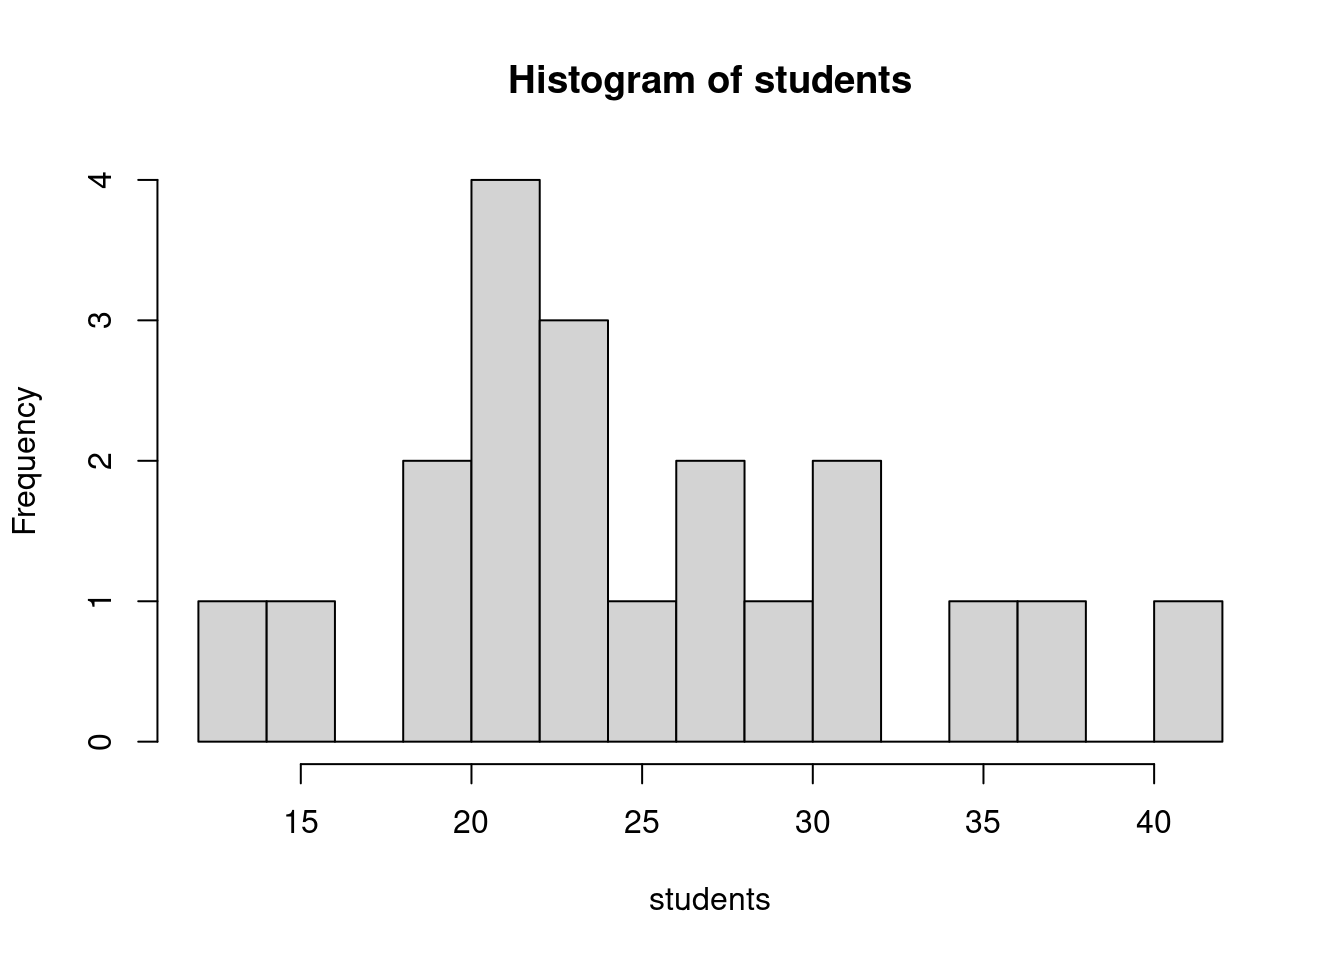
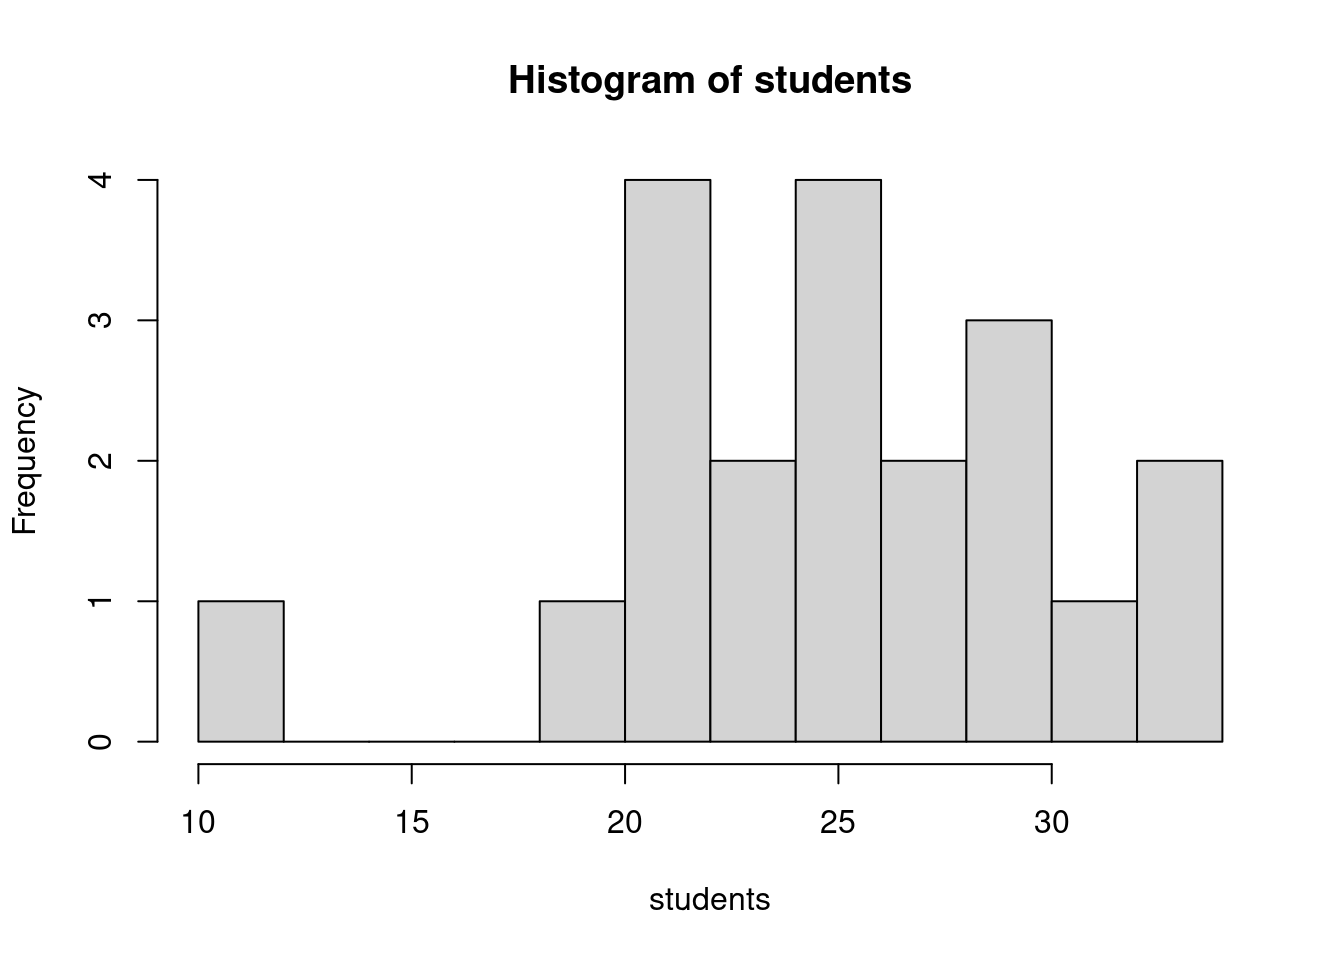
Variance added - ready to publish

diff --git a/_book/what-is-statistics.html b/_book/what-is-statistics.html
@@ -225,6 +225,17 @@ code span.wa { color: #60a0b0; font-weight: bold; font-style: italic; } /* Warni
 <li class="chapter" data-level="3.5.1" data-path="discrete-probability.html"><a href="discrete-probability.html#conclusion-to-the-motivating-question"><i class="fa fa-check"></i><b>3.5.1</b> Conclusion to the Motivating Question</a></li>
 <li class="chapter" data-level="3.5.2" data-path="discrete-probability.html"><a href="discrete-probability.html#general-cummulative-distribution-functions"><i class="fa fa-check"></i><b>3.5.2</b> General Cummulative Distribution Functions</a></li>
 </ul></li>
+<li class="chapter" data-level="3.6" data-path="discrete-probability.html"><a href="discrete-probability.html#motivating-problem---the-birthday-paradox"><i class="fa fa-check"></i><b>3.6</b> Motivating Problem - The Birthday Paradox</a></li>
+<li class="chapter" data-level="3.7" data-path="discrete-probability.html"><a href="discrete-probability.html#expected-value"><i class="fa fa-check"></i><b>3.7</b> Expected Value</a>
+<ul>
+<li class="chapter" data-level="3.7.1" data-path="discrete-probability.html"><a href="discrete-probability.html#the-expected-number-of-students-experiencing-food-insecurity"><i class="fa fa-check"></i><b>3.7.1</b> The Expected Number of Students Experiencing Food Insecurity</a></li>
+<li class="chapter" data-level="3.7.2" data-path="discrete-probability.html"><a href="discrete-probability.html#examples"><i class="fa fa-check"></i><b>3.7.2</b> Examples</a></li>
+</ul></li>
+<li class="chapter" data-level="3.8" data-path="discrete-probability.html"><a href="discrete-probability.html#population-variance"><i class="fa fa-check"></i><b>3.8</b> Population Variance</a>
+<ul>
+<li class="chapter" data-level="3.8.1" data-path="discrete-probability.html"><a href="discrete-probability.html#methods-of-computing-vy"><i class="fa fa-check"></i><b>3.8.1</b> Methods of Computing <span class="math inline">\(V(Y)\)</span></a></li>
+<li class="chapter" data-level="3.8.2" data-path="discrete-probability.html"><a href="discrete-probability.html#variance-of-a-binomial-random-variable"><i class="fa fa-check"></i><b>3.8.2</b> Variance of a Binomial Random Variable</a></li>
+</ul></li>
 </ul></li>
 </ul>
 
@@ -311,7 +322,7 @@ While I am collecting this data you can reflect on this funny musing. I grew up 
 <span id="cb2-5"><a href="what-is-statistics.html#cb2-5" aria-hidden="true" tabindex="-1"></a><span class="co"># students &lt;- c() </span></span>
 <span id="cb2-6"><a href="what-is-statistics.html#cb2-6" aria-hidden="true" tabindex="-1"></a></span>
 <span id="cb2-7"><a href="what-is-statistics.html#cb2-7" aria-hidden="true" tabindex="-1"></a>students</span></code></pre></div>
-<pre><code>##  [1] 22 19 29 41 31 27 26 23 20 23 21 13 28 22 16 38 21 31 36 23</code></pre>
+<pre><code>##  [1] 26 28 34 29 22 26 34 21 30 21 25 24 25 22 32 30 20 10 24 27</code></pre>
 <p><em>R Notes</em>: c() stands for column and is one of the most basic data structures in R. Most things we will build will either manipulate columns directly or will use structures built out of columns.</p>
 <p>Comments in commands start with <em>hash symbols</em>.</p>
 <p>Another syntax note: R uses both = and &lt;- for assignment though they have slightly different meanings. They both work as you would expect, however &lt;- has some nice positives in the detailed differences and it is worth getting into the habit of using it.</p>
@@ -321,11 +332,11 @@ While I am collecting this data you can reflect on this funny musing. I grew up 
 <p>To get started we can use <em>summary</em> to get an overview of what our list of student enrollments look like. Review the meaning of each of these.</p>
 <div class="sourceCode" id="cb4"><pre class="sourceCode r"><code class="sourceCode r"><span id="cb4-1"><a href="what-is-statistics.html#cb4-1" aria-hidden="true" tabindex="-1"></a><span class="fu">summary</span>(students)</span></code></pre></div>
 <pre><code>##    Min. 1st Qu.  Median    Mean 3rd Qu.    Max. 
-##    13.0    21.0    23.0    25.5    29.5    41.0</code></pre>
+##   10.00   22.00   25.50   25.50   29.25   34.00</code></pre>
 <p>Mean and Median are <em>measures of center</em>, while the quartiles are <em>measures of spread</em>. One measure of spread missing is the variance or its square root standard deviation:</p>
 <div class="sourceCode" id="cb6"><pre class="sourceCode r"><code class="sourceCode r"><span id="cb6-1"><a href="what-is-statistics.html#cb6-1" aria-hidden="true" tabindex="-1"></a><span class="fu">var</span>(students); <span class="fu">sqrt</span>(<span class="fu">var</span>(students))</span></code></pre></div>
-<pre><code>## [1] 52.15789</code></pre>
-<pre><code>## [1] 7.222042</code></pre>
+<pre><code>## [1] 31</code></pre>
+<pre><code>## [1] 5.567764</code></pre>
 <p>The variance is computed by taking the sum of the square differences between the data and the mean and then dividing that by number of items minus one; we will explain why this is what we divide by later in class:
 <span class="math display">\[ S = \frac{1}{n-1} \sum_{j=1}^n (y_j - \bar{y} )^2 \]</span> where <span class="math inline">\(\bar{y}\)</span> is the mean of the sample made up of the <span class="math inline">\(\{ y_1, y_2, \dots, y_n \}\)</span>.</p>
 <p>In the code blocks below I will add some comments about what we are doing:</p>
@@ -335,19 +346,19 @@ While I am collecting this data you can reflect on this funny musing. I grew up 
 <span id="cb9-4"><a href="what-is-statistics.html#cb9-4" aria-hidden="true" tabindex="-1"></a></span>
 <span id="cb9-5"><a href="what-is-statistics.html#cb9-5" aria-hidden="true" tabindex="-1"></a><span class="co"># R can then do the arithmetic and when we combine a list of numbers with a single number and square it, it knows what we mean.</span></span>
 <span id="cb9-6"><a href="what-is-statistics.html#cb9-6" aria-hidden="true" tabindex="-1"></a>(students <span class="sc">-</span> ybar)<span class="sc">^</span><span class="dv">2</span></span></code></pre></div>
-<pre><code>##  [1]  12.25  42.25  12.25 240.25  30.25   2.25   0.25   6.25  30.25   6.25
-## [11]  20.25 156.25   6.25  12.25  90.25 156.25  20.25  30.25 110.25   6.25</code></pre>
+<pre><code>##  [1]   0.25   6.25  72.25  12.25  12.25   0.25  72.25  20.25  20.25  20.25
+## [11]   0.25   2.25   0.25  12.25  42.25  20.25  30.25 240.25   2.25   2.25</code></pre>
 <div class="sourceCode" id="cb11"><pre class="sourceCode r"><code class="sourceCode r"><span id="cb11-1"><a href="what-is-statistics.html#cb11-1" aria-hidden="true" tabindex="-1"></a><span class="co"># Then as we said, we sum over all of these and then divide by the number of them</span></span>
 <span id="cb11-2"><a href="what-is-statistics.html#cb11-2" aria-hidden="true" tabindex="-1"></a><span class="co"># minus 1</span></span>
 <span id="cb11-3"><a href="what-is-statistics.html#cb11-3" aria-hidden="true" tabindex="-1"></a></span>
 <span id="cb11-4"><a href="what-is-statistics.html#cb11-4" aria-hidden="true" tabindex="-1"></a><span class="fu">sum</span>( (students <span class="sc">-</span> ybar)<span class="sc">^</span><span class="dv">2</span> ) <span class="sc">/</span> ( <span class="fu">length</span>(students) <span class="sc">-</span> <span class="dv">1</span> )</span></code></pre></div>
-<pre><code>## [1] 52.15789</code></pre>
+<pre><code>## [1] 31</code></pre>
 <p>Note why we compute variance in this way. We are trying to understand how far the data moves from the mean <span class="math inline">\(\bar{y}\)</span>. However we can’t just sum over the differences as that will just add up to zero:</p>
 <div class="sourceCode" id="cb13"><pre class="sourceCode r"><code class="sourceCode r"><span id="cb13-1"><a href="what-is-statistics.html#cb13-1" aria-hidden="true" tabindex="-1"></a><span class="fu">sum</span>(students <span class="sc">-</span> ybar )</span></code></pre></div>
 <pre><code>## [1] 0</code></pre>
 <p>We have choices though, we could sum over the absolute value and indeed that does give us a notion of spread. Here for example is the corresponding average for absolute deviation:</p>
 <div class="sourceCode" id="cb15"><pre class="sourceCode r"><code class="sourceCode r"><span id="cb15-1"><a href="what-is-statistics.html#cb15-1" aria-hidden="true" tabindex="-1"></a><span class="fu">sum</span>( <span class="fu">abs</span>(students <span class="sc">-</span> ybar)) <span class="sc">/</span> (<span class="fu">length</span>(students) <span class="sc">-</span> <span class="dv">1</span> )</span></code></pre></div>
-<pre><code>## [1] 6.052632</code></pre>
+<pre><code>## [1] 4.315789</code></pre>
 <p>However the advantage of summing over the squares is that it brings in tools from Calculus that work with quadratic expressions but not with absolute value expressions. We then intend to take an average. For reasons we will justify later, it turns out the correct average to do is to divide by the size of our sample minus 1: <span class="math inline">\(n-1\)</span> is called the degrees of freedom (roughly computing <span class="math inline">\(\bar{y}\)</span> from the sample has used up one degree of freedom).</p>
 <p>Note the units on these two statistics: the variance is the average of the sum of the squares (by the number of degrees of freedom) so its units are the square of the units of our sample data (<em>students squared</em> in this case); and then the standard deviation is the square root of the variance and so has units of the original data (<em>students</em> in this case).</p>
 </div>

diff --git a/_book/index.html b/_book/index.html
@@ -24,7 +24,7 @@
 <meta name="author" content="Virgil U Pierce" />
 
 
-<meta name="date" content="2021-05-19" />
+<meta name="date" content="2021-05-20" />
 
   <meta name="viewport" content="width=device-width, initial-scale=1" />
   <meta name="apple-mobile-web-app-capable" content="yes" />
@@ -225,6 +225,17 @@ code span.wa { color: #60a0b0; font-weight: bold; font-style: italic; } /* Warni
 <li class="chapter" data-level="3.5.1" data-path="discrete-probability.html"><a href="discrete-probability.html#conclusion-to-the-motivating-question"><i class="fa fa-check"></i><b>3.5.1</b> Conclusion to the Motivating Question</a></li>
 <li class="chapter" data-level="3.5.2" data-path="discrete-probability.html"><a href="discrete-probability.html#general-cummulative-distribution-functions"><i class="fa fa-check"></i><b>3.5.2</b> General Cummulative Distribution Functions</a></li>
 </ul></li>
+<li class="chapter" data-level="3.6" data-path="discrete-probability.html"><a href="discrete-probability.html#motivating-problem---the-birthday-paradox"><i class="fa fa-check"></i><b>3.6</b> Motivating Problem - The Birthday Paradox</a></li>
+<li class="chapter" data-level="3.7" data-path="discrete-probability.html"><a href="discrete-probability.html#expected-value"><i class="fa fa-check"></i><b>3.7</b> Expected Value</a>
+<ul>
+<li class="chapter" data-level="3.7.1" data-path="discrete-probability.html"><a href="discrete-probability.html#the-expected-number-of-students-experiencing-food-insecurity"><i class="fa fa-check"></i><b>3.7.1</b> The Expected Number of Students Experiencing Food Insecurity</a></li>
+<li class="chapter" data-level="3.7.2" data-path="discrete-probability.html"><a href="discrete-probability.html#examples"><i class="fa fa-check"></i><b>3.7.2</b> Examples</a></li>
+</ul></li>
+<li class="chapter" data-level="3.8" data-path="discrete-probability.html"><a href="discrete-probability.html#population-variance"><i class="fa fa-check"></i><b>3.8</b> Population Variance</a>
+<ul>
+<li class="chapter" data-level="3.8.1" data-path="discrete-probability.html"><a href="discrete-probability.html#methods-of-computing-vy"><i class="fa fa-check"></i><b>3.8.1</b> Methods of Computing <span class="math inline">\(V(Y)\)</span></a></li>
+<li class="chapter" data-level="3.8.2" data-path="discrete-probability.html"><a href="discrete-probability.html#variance-of-a-binomial-random-variable"><i class="fa fa-check"></i><b>3.8.2</b> Variance of a Binomial Random Variable</a></li>
+</ul></li>
 </ul></li>
 </ul>
 
@@ -246,7 +257,7 @@ code span.wa { color: #60a0b0; font-weight: bold; font-style: italic; } /* Warni
 <div id="header">
 <h1 class="title">MATH 550 - Applied Probability and Statistics</h1>
 <p class="author"><em>Virgil U Pierce</em></p>
-<p class="date" style="margin-top: 1.5em;"><em>2021-05-19</em></p>
+<p class="date" style="margin-top: 1.5em;"><em>2021-05-20</em></p>
 </div>
 <div id="introduction-and-course-syllabus" class="section level1" number="1">
 <h1><span class="header-section-number">1</span> Introduction and Course Syllabus</h1>
@@ -429,6 +440,20 @@ gitbook.start({
 });
 </script>
 
+<!-- dynamically load mathjax for compatibility with self-contained -->
+<script>
+  (function () {
+    var script = document.createElement("script");
+    script.type = "text/javascript";
+    var src = "true";
+    if (src === "" || src === "true") src = "https://mathjax.rstudio.com/latest/MathJax.js?config=TeX-MML-AM_CHTML";
+    if (location.protocol !== "file:")
+      if (/^https?:/.test(src))
+        src = src.replace(/^https?:/, '');
+    script.src = src;
+    document.getElementsByTagName("head")[0].appendChild(script);
+  })();
+</script>
 </body>
 
 </html>
